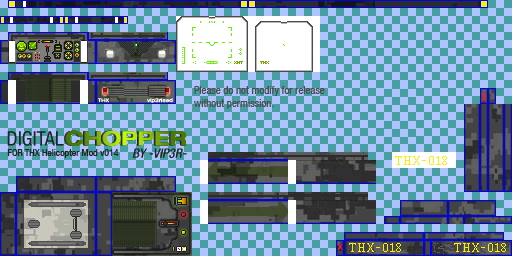
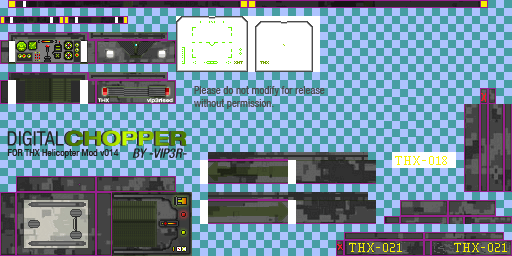
v021 beta for mc 147

diff --git a/project/src/net/minecraft/src/ThxEntityHelicopter.java b/project/src/net/minecraft/src/ThxEntityHelicopter.java
@@ -114,7 +114,7 @@ public class ThxEntityHelicopter extends ThxEntity
         super.onUpdate();
         
         // all helicopters should have exhaust smoke as a test in lan mp: particles must be spawned by client, no effect on server
-        if (worldObj.isRemote) worldObj.spawnParticle("smoke", posX -.5f + Math.random(), posY -.5f + Math.random(), posZ -.5f + Math.random(), 0.0, 0.0, 0.0);
+        //if (worldObj.isRemote) worldObj.spawnParticle("smoke", posX -.5f + Math.random(), posY -.5f + Math.random(), posZ -.5f + Math.random(), 0.0, 0.0, 0.0);
         
         // decrement cooldown timers
         missileDelay -= deltaTime;
@@ -922,7 +922,7 @@ public class ThxEntityHelicopter extends ThxEntity
         int mapIdx = ((mapIdxX + 50) * 100) + mapIdxZ + 50;
         //System.out.println("Map idx: " + mapIdx);
                 
-        ItemStack mapStack = new ItemStack(Item.map.shiftedIndex, 1, mapIdx);
+        ItemStack mapStack = new ItemStack(Item.map.itemID, 1, mapIdx);
                 
         String mapIdxString = "map_" + mapIdx;
                 

diff --git a/project/src/net/minecraft/src/mod_thx.java b/project/src/net/minecraft/src/mod_thx.java
@@ -102,7 +102,7 @@ public class mod_thx extends BaseMod
     public String getVersion()
     {
         //log("getVersion called");
-        return "Minecraft THX Helicopter Mod - mod_thx-mc146_v020_h";
+        return "Minecraft THX Helicopter Mod - mod_thx-mc147_v021_a";
     }
 
     int getNextItemId()

diff --git a/project/src/net/minecraft/src/ThxItemHelicopter.java b/project/src/net/minecraft/src/ThxItemHelicopter.java
@@ -10,7 +10,7 @@ public class ThxItemHelicopter extends Item
     public ThxItemHelicopter(int id)
     {
         super(id);
-        shiftedId = shiftedIndex;
+        shiftedId = itemID;
         
         setItemName("thxHelicopterItem");
         setMaxStackSize(16);
